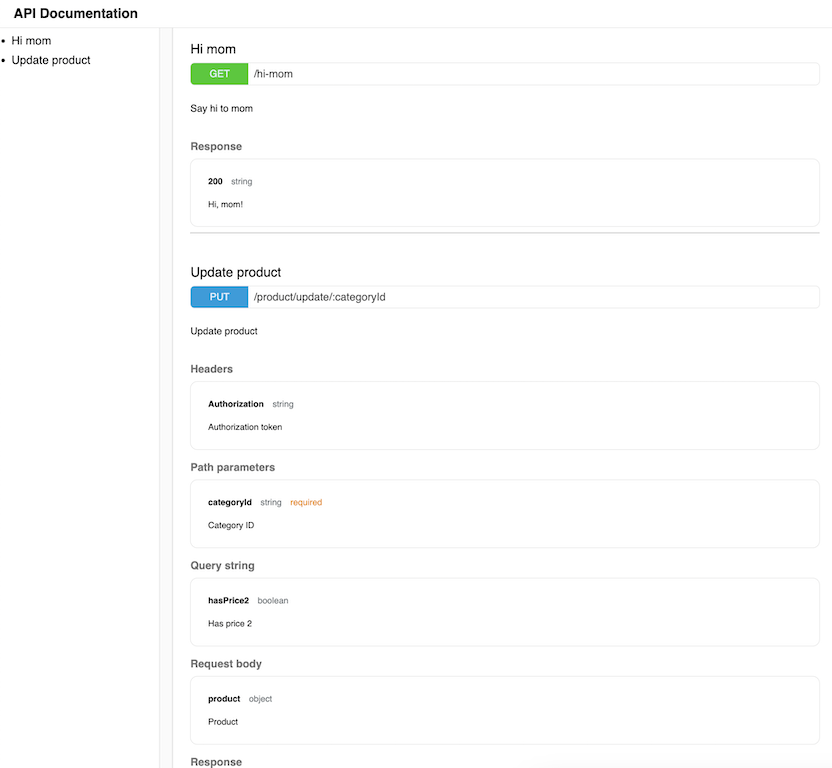
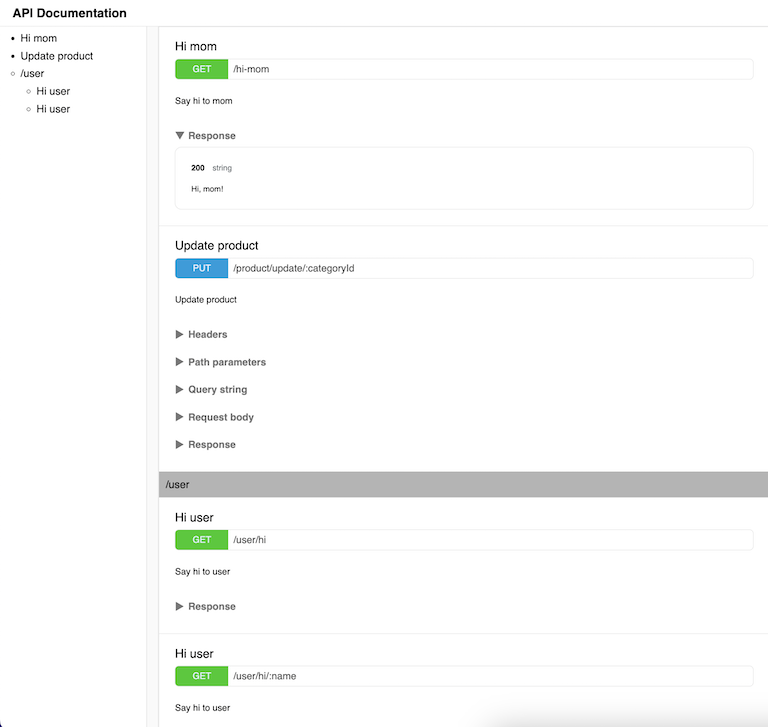
feat: nested route

diff --git a/src/generator/postman/index.js b/src/generator/postman/index.js
@@ -1,67 +1,78 @@
 const {getActiveMethod, obj2KeyValuePair, defaultBodyValueFromSchema} = require('../utils')
 const {v4} = require('uuid')
 
-module.exports = (metadatas, cb) => {
-  const items = metadatas.map(({path, methods, metadata}) => {
-    const {title, schema, tests /*postman tests*/, testCases} = metadata || {}
-    const method = (getActiveMethod(methods) || 'get').toLowerCase()
-    const hasTestCases = testCases && testCases.length
-    const firstTestCase = hasTestCases && testCases[0]
-    const authHeader = firstTestCase && firstTestCase.headers && firstTestCase.headers.Authorization
-    const anotherHeaders = firstTestCase && firstTestCase.headers && Object.entries(firstTestCase.headers).filter(([k]) => k !== 'Authorization').map(([k, v]) => ({key: k, value: v})) || []
-    const body = ['post', 'put'].includes(method) && (firstTestCase && firstTestCase.body || schema && defaultBodyValueFromSchema(schema.body))
-
+function generateAPI(route) {
+  const isSubRoute = route.subRoute && route.subRoute.length > 0
+  if (isSubRoute) {
     return {
-      name: title,
-      ...tests && {
-        event: [
-          {
-            listen: 'test',
-            script: {
-              type: 'text/javascript',
-              exec: tests.split('\n')
-            }
+      name: route.path,
+      item: route.subRoute.map(generateAPI)
+    }
+  }
+
+  const {path, methods, metadata} = route;
+  const {title, schema, tests /*postman tests*/, testCases} = metadata || {}
+  const method = (getActiveMethod(methods) || 'get').toLowerCase()
+  const hasTestCases = testCases && testCases.length
+  const firstTestCase = hasTestCases && testCases[0]
+  const authHeader = firstTestCase && firstTestCase.headers && firstTestCase.headers.Authorization
+  const anotherHeaders = firstTestCase && firstTestCase.headers && Object.entries(firstTestCase.headers).filter(([k]) => k !== 'Authorization').map(([k, v]) => ({key: k, value: v})) || []
+  const body = ['post', 'put'].includes(method) && (firstTestCase && firstTestCase.body || schema && defaultBodyValueFromSchema(schema.body))
+
+  return {
+    name: title,
+    ...tests && {
+      event: [
+        {
+          listen: 'test',
+          script: {
+            type: 'text/javascript',
+            exec: tests.split('\n')
           }
-        ]
+        }
+      ]
+    },
+    request: {
+      method,
+      // only support Bear token at the moment
+      ...authHeader && {
+        auth: {
+          type: 'bearer',
+          bearer: [{
+            "key": "token",
+            "value": authHeader,
+            "type": "string"
+          }]
+        }
       },
-      request: {
-        method,
-        // only support Bear token at the moment
-        ...authHeader && {
-          auth: {
-            type: 'bearer',
-            bearer: [{
-              "key": "token",
-              "value": authHeader,
-              "type": "string"
-            }]
-          }
-        },
-        header: anotherHeaders,
-        ...body && {
-          body: {
-            mode: 'raw',
-            raw: JSON.stringify(body || {}, null, 2),
-            options: {
-              raw: {
-                language: 'json'
-              }
+      header: anotherHeaders,
+      ...body && {
+        body: {
+          mode: 'raw',
+          raw: JSON.stringify(body || {}, null, 2),
+          options: {
+            raw: {
+              language: 'json'
             }
-          }
-        },
-        url: {
-          raw: `{{HOST}}${path}`,
-          host: ['{{HOST}}'],
-          path: path.split('/').filter(Boolean).map(p => p.startsWith(':') ? `:${p.slice(1)}` : p),
-          ...firstTestCase && {
-            query: obj2KeyValuePair((firstTestCase.query) || {}, true),
-            variable: obj2KeyValuePair((firstTestCase.params) || {}, true)
           }
         }
       },
-      response: []
-    }
-  })
+      url: {
+        raw: `{{HOST}}${path}`,
+        host: ['{{HOST}}'],
+        path: path.split('/').filter(Boolean).map(p => p.startsWith(':') ? `:${p.slice(1)}` : p),
+        ...firstTestCase && {
+          query: obj2KeyValuePair((firstTestCase.query) || {}, true),
+          variable: obj2KeyValuePair((firstTestCase.params) || {}, true)
+        }
+      }
+    },
+    response: []
+  }
+}
+
+module.exports = (metadatas, cb) => {
+  const items = metadatas.map(generateAPI)
 
   const postman = {
     info: {

diff --git a/example/app.js b/example/app.js
@@ -1,7 +1,6 @@
 const express = require('express');
 const Router = require('routerex');
 const Exdogen = require('../src/index');
-const fs = require('fs');
 const app = express();
 
 const apiRouter = Router();
@@ -88,25 +87,51 @@ apiRouter.put('/product/update/:categoryId', {
   res.send(echoMsg);
 });
 
-const exdogen = Exdogen({
-  onHtmlGenerated: (html) => {
-    const docs = __dirname + '/public/docs';
-    if (!fs.existsSync(docs))
-      fs.mkdirSync(docs)
-    fs.writeFileSync(docs + '/index.html', html);
-  },
-  onPostmanGenerated: (postman) => {
-    const docs = __dirname + '/public/docs';
-    if (!fs.existsSync(docs))
-      fs.mkdirSync(docs)
-    fs.writeFileSync(docs + '/postman.json', JSON.stringify(postman))
-  },
-  onError: (e) => {
-    console.error(e);
+const userRouter = Router();
+userRouter.get('/hi', {
+  title: 'Hi user',
+  desc: 'Say hi to user',
+  response: {
+    200: {
+      type: 'string',
+      desc: 'Hi, user!'
+    }
   }
+}, (req, res) => res.send('Hi, user!'));
+userRouter.get('/hi/:name', {
+  title: 'Hi user',
+  desc: 'Say hi to user',
+  schema: {
+    params: {
+      name: {
+        type: 'string',
+        desc: 'User name',
+        required: true
+      }
+    }
+  },
+  response: {
+    200: {
+      type: 'string',
+      desc: 'Hi, user!'
+    }
+  }
+}, (req, res) => res.send(`Hi, ${req.params.name}!`));
+apiRouter.use('/user', userRouter);
+
+const cache = {};
+const exdogen = Exdogen({
+  onHtmlGenerated: html => cache.html = html,
+  onPostmanGenerated: postman => cache.postman = postman,
+  onError: console.error
 })
-app.use(...exdogen('/', [/*middlewares*/], apiRouter));
-app.use(express.static('public'));
+const middelware1 = (req, res, next) => { next() }
+const middelware2 = (req, res, next) => { next() }
+app.use(...exdogen('/', middelware1, middelware2, apiRouter));
+app.get('/docs', (req, res) => res.send(cache.html));
+app.get('/docs/index.html', (req, res) => res.send(cache.html));
+app.get('/docs/postman.json', (req, res) => res.send(cache.postman));
+app.use('/', express.static('public'));
 
 app.listen(3000, () => {
   console.log('Example app listening on http://localhost:3000');

diff --git a/src/generator/html/components/ApiDocItem.js b/src/generator/html/components/ApiDocItem.js
@@ -14,22 +14,29 @@ module.exports = {
     FieldSpec
   },
   props: {
+    subRoute: Array,
     path: String,
     methods: Object,
     metadata: Object
   },
   setup(props) {
-    const methodName = computed(() => Object.keys(props.methods).find(k => props.methods[k]))
-    const methodColor = computed(() => methodColors[methodName.value] || '#aaa')
-    const elId = computed(() => `${methodName.value}:${props.path}`)
+    const isSubRoute = props.subRoute && props.subRoute.length > 0
+    const methodName = isSubRoute ? '' : Object.keys(props.methods).find(k => props.methods[k]);
+    const methodColor = methodColors[methodName] || '#aaa'
+    const elId = `${methodName}:${props.path}`
     return {
+      isSubRoute,
       methodName,
       methodColor,
       elId
     }
   },
   template: `
-<div class="grid gtc-1fr-1fr" style="border-top: 1px solid #ddd">
+<div v-if="isSubRoute">
+  <div style="padding: 10px; background-color: #b4b4b4">{{path}}</div>
+  <api-doc-item v-for="item in subRoute" v-bind="item" class="mb-3"/>
+</div>    
+<div v-else class="grid gtc-1fr-1fr" style="border-top: 1px solid #ddd">
     <div class="fc fg-1 px-3">
       <div class="pt-2 fs-l" :id="elId">{{metadata.title}}</div>
       <div style="border: 1px solid #ddd; line-height: 30px; border-radius: 6px;" class="fr ai-c mb-2 ovf-h">
@@ -44,7 +51,6 @@ module.exports = {
       <field-spec title="Response" :value="metadata.response"/>
     </div>
     <div style="color: #fff; background-color: #1e204c; border-radius: 0 0 6px 6px">
-
     </div>
 </div>`
 }

diff --git a/src/generator/html/ApiDoc.js b/src/generator/html/ApiDoc.js
@@ -1,13 +1,10 @@
 const ApiDocItem = require('./components/ApiDocItem')
+const ApiDocLink = require('./components/ApiDocLink')
 
 module.exports = {
-  components: {ApiDocItem},
+  components: {ApiDocItem, ApiDocLink},
   props: {routeMetadatas: Array},
   setup() {
-    const methodName = (item) => Object.keys(item.methods).find(k => item.methods[k])
-    const toLower = (v) => v && v.toLowerCase()
-    const href = (item) => `#${methodName(item)}:${item.path}`
-    return {methodName, toLower, href}
   },
   template:
 `<div class="w-100vw h-100vh">
@@ -17,11 +14,7 @@ module.exports = {
     <div class="grid ovf-h" style="height: calc(100% - 40px); grid-template-columns: 240px 1fr;">
       <div class="h-100 ovf-y-s" style="border-right: 1px solid #ddd; padding-left: 15px">
         <ul class="mx-2">
-          <li class="my-1 clickable" v-for="item in routeMetadatas">
-            <a style="text-decoration: none; color: #0c0c0d" :href="href(item)">
-              {{item.metadata.title || toLower(item.path)}}
-            </a>
-          </li>
+          <api-doc-link v-for="item in routeMetadatas" v-bind="item"/>
         </ul>
       </div>
       <div class="h-100 ovf-y-s">

diff --git a/src/generator/html/components/ApiDocLink.js b/src/generator/html/components/ApiDocLink.js
@@ -1,0 +1,28 @@
+const {computed} = require('vue');
+
+module.exports = {
+  name: 'ApiDocItem',
+  props: {
+    path: String,
+    subRoute: Array,
+    methods: Object,
+    metadata: Object
+  },
+  setup(props) {
+    const isSubRoute = props.subRoute && props.subRoute.length > 0
+    const methodName = isSubRoute ? '' : Object.keys(props.methods).find(k => props.methods[k]);
+    const href = isSubRoute ? '' : `#${methodName}:${props.path}`
+    return {href, isSubRoute}
+  },
+  template: `
+<ul v-if="isSubRoute">
+    <li class="my-1 clickable">{{ path }}</li>
+    <api-doc-item v-for="item in subRoute" v-bind="item" class="ml-3"/>
+</ul>
+<li v-else class="my-1 clickable">
+    <a style="text-decoration: none; color: #0c0c0d" :href="href">
+      {{ metadata.title || path.toLowerCase() }}
+    </a>
+</li>
+  `
+}

diff --git a/src/generator/html/index.js b/src/generator/html/index.js
@@ -20,6 +20,8 @@ function buildHtml(docContent) {
       /*margin*/
       .my-1 { margin-top: 0.5em; margin-bottom: 0.5em; }
       .ml-1 { margin-left: 0.5em; }
+      .ml-2 { margin-left: 1em; }
+      .ml-3 { margin-left: 1.5em; }
       .mb-2 { margin-bottom: 1em; }
       .mr-2 { margin-right: 1em; }
       .mb-3 { margin-bottom: 1.5em; }

diff --git a/README.md b/README.md
@@ -27,25 +27,20 @@ const app = express();
 const apiRouter = require('./apiRouter');
 
 const Exdogen = require('exdogen');
+const cache = {};
 const exdogen = Exdogen({
-  onHtmlGenerated: (html) => {
-    const docs = __dirname + '/public/docs';
-    if (!fs.existsSync(docs))
-      fs.mkdirSync(docs)
-    fs.writeFileSync(docs + '/index.html', html);
-  },
-  onPostmanGenerated: (postman) => {
-    const docs = __dirname + '/public/docs';
-    if (!fs.existsSync(docs))
-      fs.mkdirSync(docs)
-    fs.writeFileSync(docs + '/postman.json', JSON.stringify(postman))
-  },
-  onError: (e) => {
-    console.error(e);
-  }
+  onHtmlGenerated: html => cache.html = html,
+  onPostmanGenerated: postman => cache.postman = postman,
+  onError: console.error
 })
-app.use(...exdogen('/', [/*middlewares*/], apiRouter));
-app.use(express.static('public'));
+const middelware1 = (req, res, next) => { next() }
+const middelware2 = (req, res, next) => { next() }
+app.use(...exdogen('/', middelware1, middelware2, apiRouter));
+app.get('/docs', (req, res) => res.send(cache.html));
+app.get('/docs/index.html', (req, res) => res.send(cache.html));
+app.get('/docs/postman.json', (req, res) => res.send(cache.postman));
+app.use('/', express.static('public'));
+
 ```
 
 ### Output
